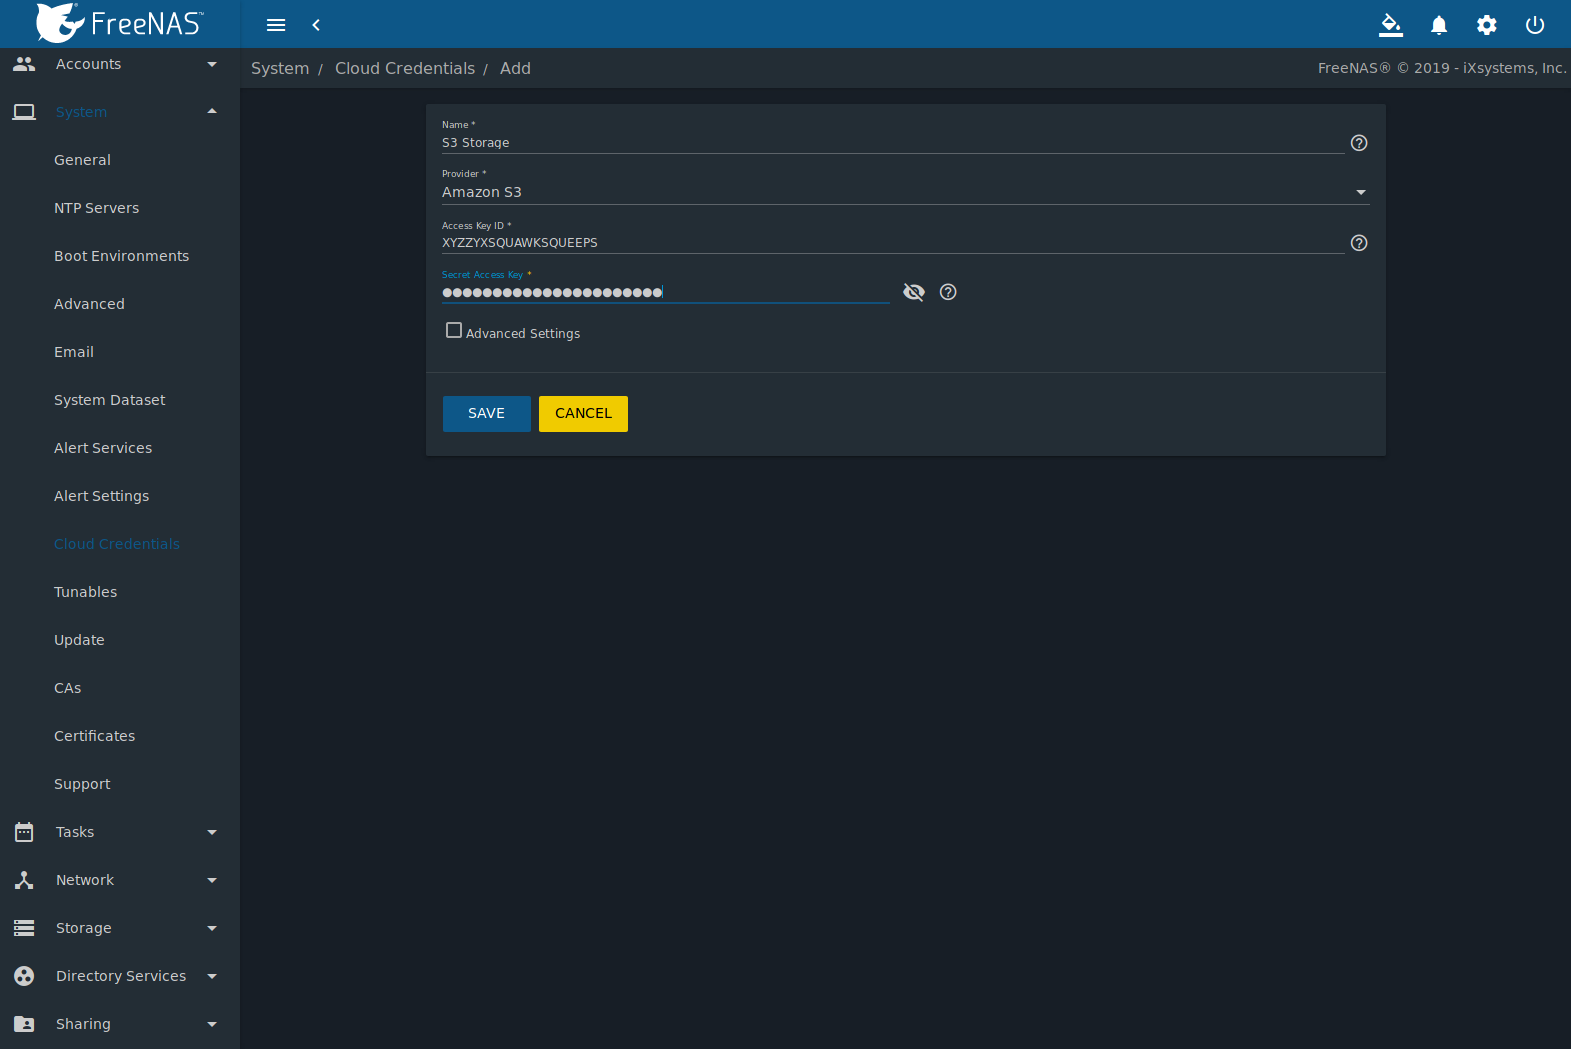
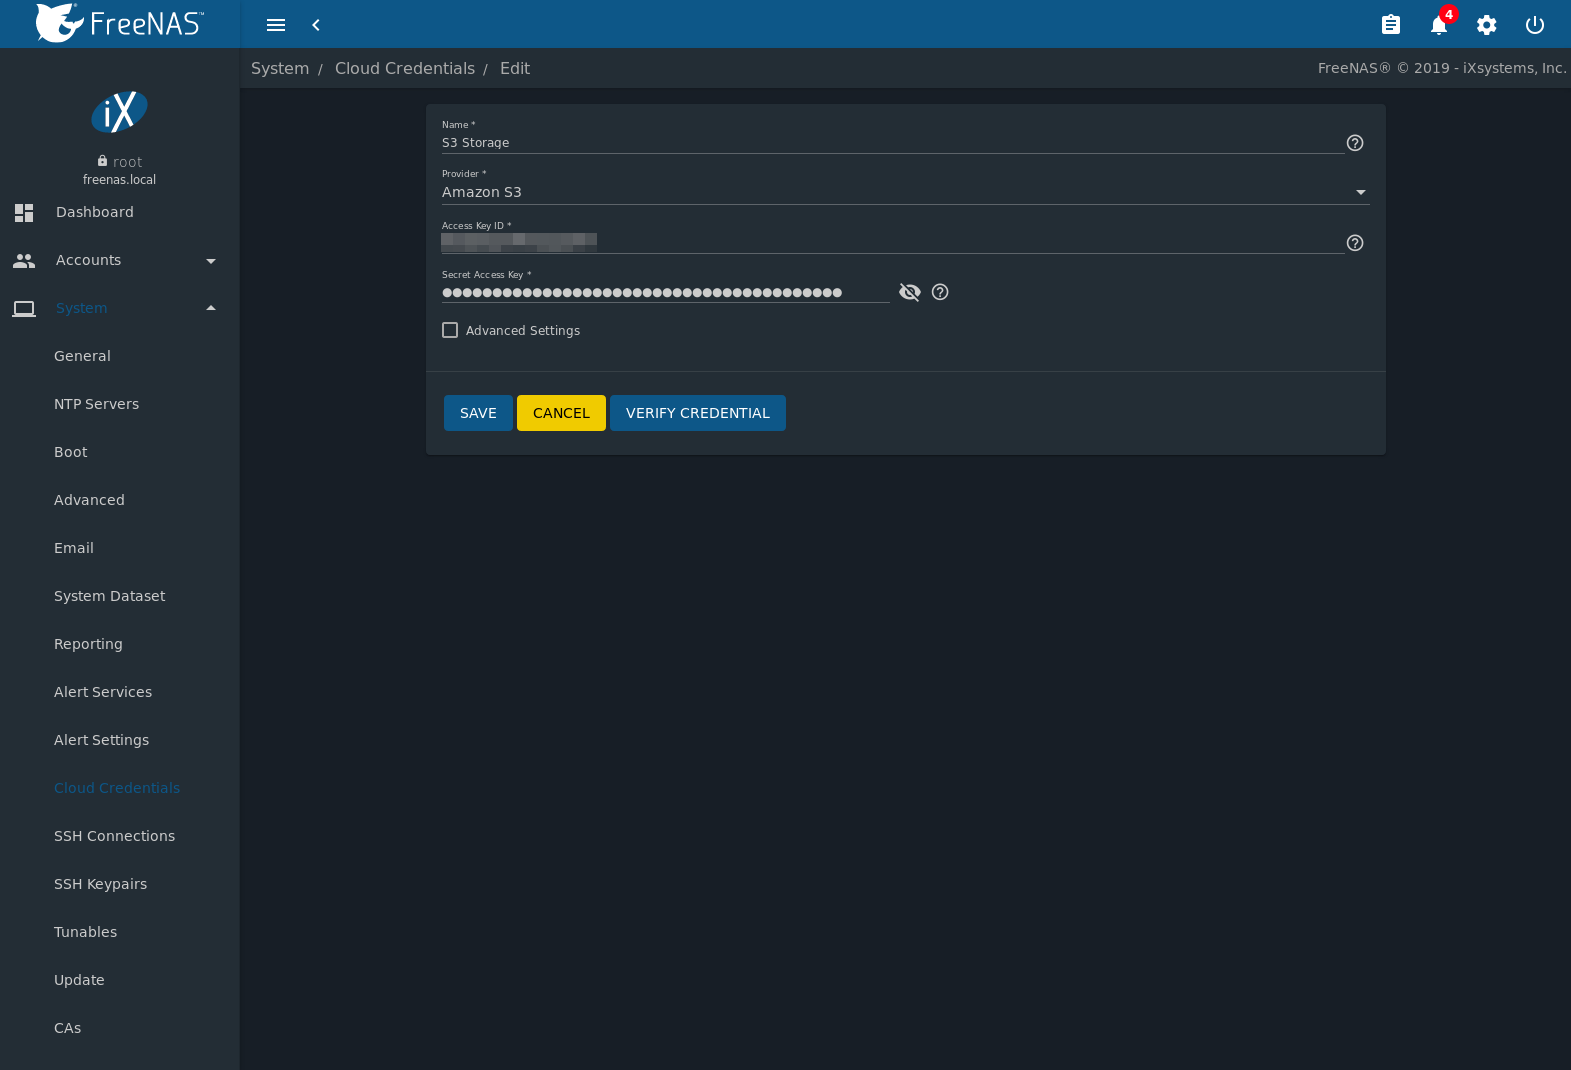
NAS-102231: Update System/Cloud Credentials to include OAuth text Update S3 storage example screen with a temporary.

diff --git a/userguide/system.rst b/userguide/system.rst
@@ -1249,14 +1249,14 @@ credential.
 Click |ui-add| to add a new cloud credential. Choose a
 :guilabel:`Provider` to display any specific options for that
 provider. :numref:`Figure %s <cloud_creds_add_fig>` shows the form for
-an *Amazon Cloud Drive* provider:
+an *Amazon S3* provider:
 
 
 .. _cloud_creds_add_fig:
 
 .. figure:: images/system-cloud-credentials-add-example.png
 
-   Add Amazon Cloud Drive Credential
+   Add Amazon S3 Credential
 
 
 Enter a descriptive and unique name for the cloud credential in the
@@ -1319,14 +1319,15 @@ Enter a descriptive and unique name for the cloud credential in the
    |                      |                      | :guilabel:`Account ID` with the :guilabel:`keyID`.                                                              |
    |                      |                      |                                                                                                                 |
    +----------------------+----------------------+-----------------------------------------------------------------------------------------------------------------+
-   | Box                  | Access Token         | Enter the Box access token.                                                                                     |
-   |                      |                      |                                                                                                                 |
+   | Box                  | Access Token,        | Configured with :ref:`Open Authentication <OAuth Config>`.                                                      |
+   |                      | OAuth Client ID,     |                                                                                                                 |
+   |                      | OAuth Client Secret  |                                                                                                                 |
    +----------------------+----------------------+-----------------------------------------------------------------------------------------------------------------+
-   | Dropbox              | Access Token         | Enter the Dropbox access token. The token is located on the                                                     |
-   |                      |                      | `App Console <https://www.dropbox.com/developers/apps>`__.                                                      |
-   |                      |                      | After creating an app, go to *Settings* and click the                                                           |
-   |                      |                      | *Generate* button under the Generated access token field.                                                       |
-   |                      |                      |                                                                                                                 |
+   | Dropbox              | Access Token,        | Configured with :ref:`Open Authentication <OAuth Config>`.                                                      |
+   |                      | OAuth Client ID,     | The access token can be manually created by going to the Dropbox `App Console                                   |
+   |                      | OAuth Client Secret  | <https://www.dropbox.com/developers/apps>`__.                                                                   |
+   |                      |                      | After creating an app, go to *Settings* and click                                                               |
+   |                      |                      | :guilabel:`Generate` under the Generated access token field.                                                    |
    +----------------------+----------------------+-----------------------------------------------------------------------------------------------------------------+
    | FTP                  | Host, Port           | Enter the FTP host and port.                                                                                    |
    |                      |                      |                                                                                                                 |
@@ -1357,15 +1358,19 @@ Enter a descriptive and unique name for the cloud credential in the
    | Storage              | Account Key          |                                                                                                                 |
    |                      |                      |                                                                                                                 |
    +----------------------+----------------------+-----------------------------------------------------------------------------------------------------------------+
-   | Microsoft OneDrive   | Access Token,        | Enter the access token. Choose the account type: *PERSONAL*, *BUSINESS*, or                                     |
-   |                      | Drive Account Type,  | `SharePoint <https://products.office.com/en-us/sharepoint/collaboration>`__ *DOCUMENT_LIBRARY*.                 |
-   |                      | Drive ID             | Enter the unique drive identifier. Open the :ref:`Shell`, enter :command:`rclone config`, and                   |
-   |                      |                      | follow the prompts to find these values. The `rclone OneDrive documentation <https://rclone.org/onedrive/>`__   |
-   |                      |                      | guides through the configuraion process.                                                                        |
+   | Microsoft            | Access Token,        | :guilabel:`OAuth Client ID`, :guilabel:`OAuth Client Secret`, and :guilabel:`Access Token` are configured with  |
+   | OneDrive             | Drive Account Type,  | :ref:`Open Authentication <OAuth Config>`.                                                                      |
+   |                      | Drive ID,            |                                                                                                                 |
+   |                      | OAuth Client ID,     | Choose the account type: *PERSONAL*, *BUSINESS*, or                                                             |
+   |                      | OAuth Client Secret  | `SharePoint <https://products.office.com/en-us/sharepoint/collaboration>`__ *DOCUMENT_LIBRARY*.                 |
    |                      |                      |                                                                                                                 |
+   |                      |                      | To find the *Drive ID*, `log in to the OneDrive account <https://onedrive.live.com>`__ and copy the string that |
+   |                      |                      | appears in the browser address bar after :literal:`cid=`. Example:                                              |
+   |                      |                      | :samp:`https://onedrive.live.com/?id=root&cid={12A34567B89C10D1}`, where *12A34567B89C10D1* is the drive ID.    |
    +----------------------+----------------------+-----------------------------------------------------------------------------------------------------------------+
-   | pCloud               | Access Token         | Enter the access token.                                                                                         |
-   |                      |                      |                                                                                                                 |
+   | pCloud               | Access Token,        | Configured with :ref:`Open Authentication <OAuth Config>`.                                                      |
+   |                      | OAuth Client ID,     |                                                                                                                 |
+   |                      | OAuth Client Secret  |                                                                                                                 |
    +----------------------+----------------------+-----------------------------------------------------------------------------------------------------------------+
    | SFTP                 | Host, Port,          | Enter the SFTP host, port, and username. Enter a password *or* PEM-encoded private key file path.               |
    |                      | Username, Password,  |                                                                                                                 |
@@ -1379,8 +1384,9 @@ Enter a descriptive and unique name for the cloud credential in the
    | WebDAV               | Username, Password   | Enter the username and password.                                                                                |
    |                      |                      |                                                                                                                 |
    +----------------------+----------------------+-----------------------------------------------------------------------------------------------------------------+
-   | Yandex               | Access Token         | Enter the access token.                                                                                         |
-   |                      |                      |                                                                                                                 |
+   | Yandex               | Access Token,        | Configured with :ref:`Open Authentication <OAuth Config>`.                                                      |
+   |                      | OAuth Client ID,     |                                                                                                                 |
+   |                      | OAuth Client Secret  |                                                                                                                 |
    +----------------------+----------------------+-----------------------------------------------------------------------------------------------------------------+
 
 
@@ -1393,12 +1399,22 @@ Copy the Access Key value to the %brand% Cloud Credential
 :guilabel:`Access Key` field, then enter the :guilabel:`Secret Key`
 value saved when the key pair was created. If the Secret Key value is
 unknown, a new key pair can be created on the same Amazon screen.
+
 The Google Cloud Storage :guilabel:`JSON Service Account Key` is found
 on the
 `Google Cloud Platform Console <https://console.cloud.google.com/apis/credentials>`__.
 
+.. _OAuth Config:
+
+`Open Authentication (OAuth) <https://openauthentication.org/>`__
+is used with some cloud providers. These providers have an
+:guilabel:`AUTHENTICATE` button that opens a new browser tab to log in
+to that provider and fill the %brand% :guilabel:`OAuth Client ID`,
+:guilabel:`OAuth Client Secret`, and :guilabel:`Access Token` fields
+with valid credentials.
+
 Enter the information and click :guilabel:`VERIFY CREDENTIAL`.
-:literal:`The Credential is valid.` is shown if the credential
+:literal:`The Credential is valid.` displays when the credential
 information is verified.
 
 More details about individual :guilabel:`Provider` settings are
